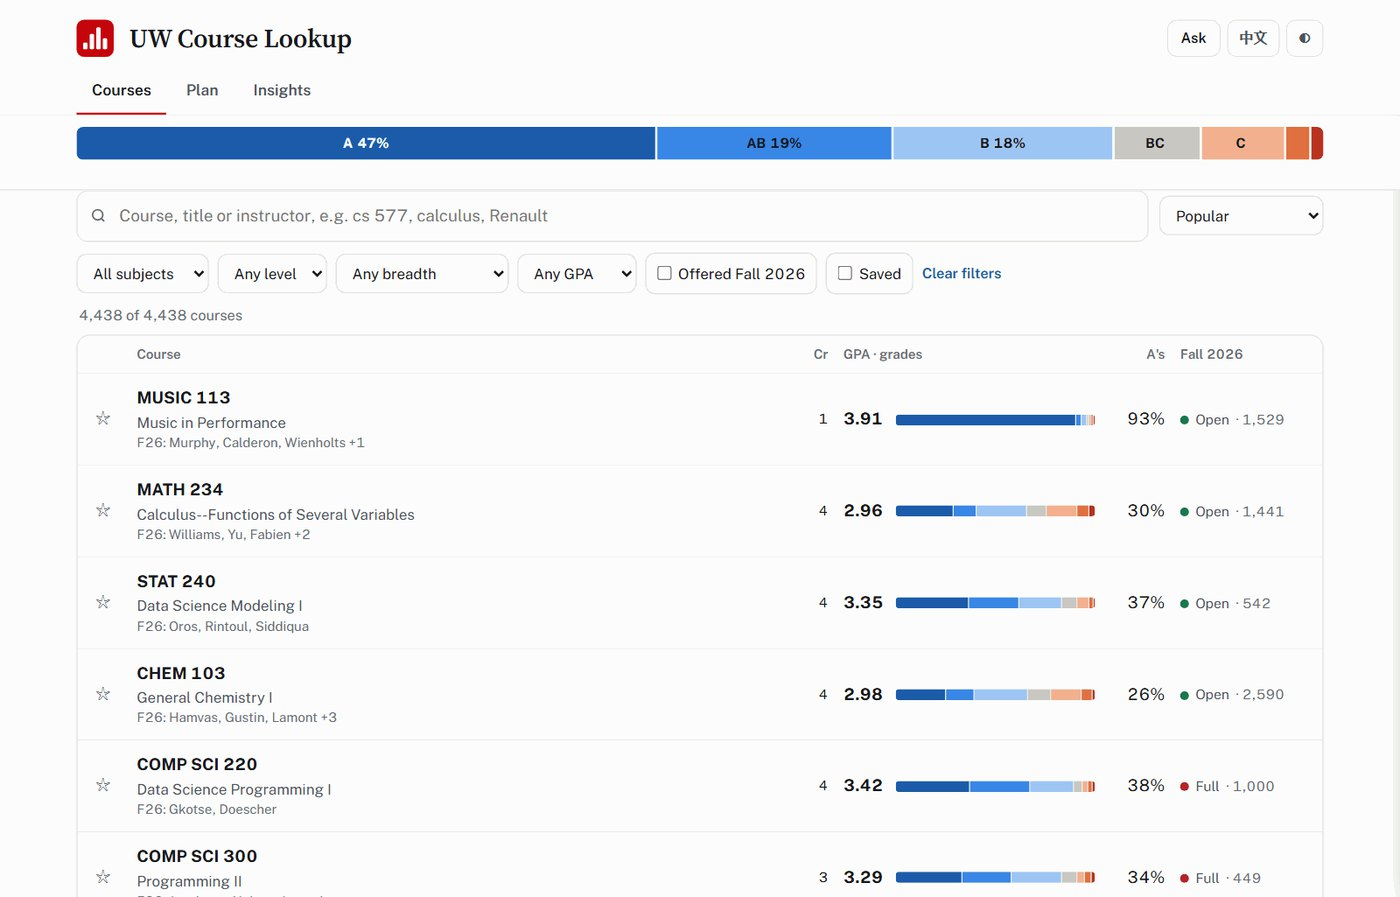
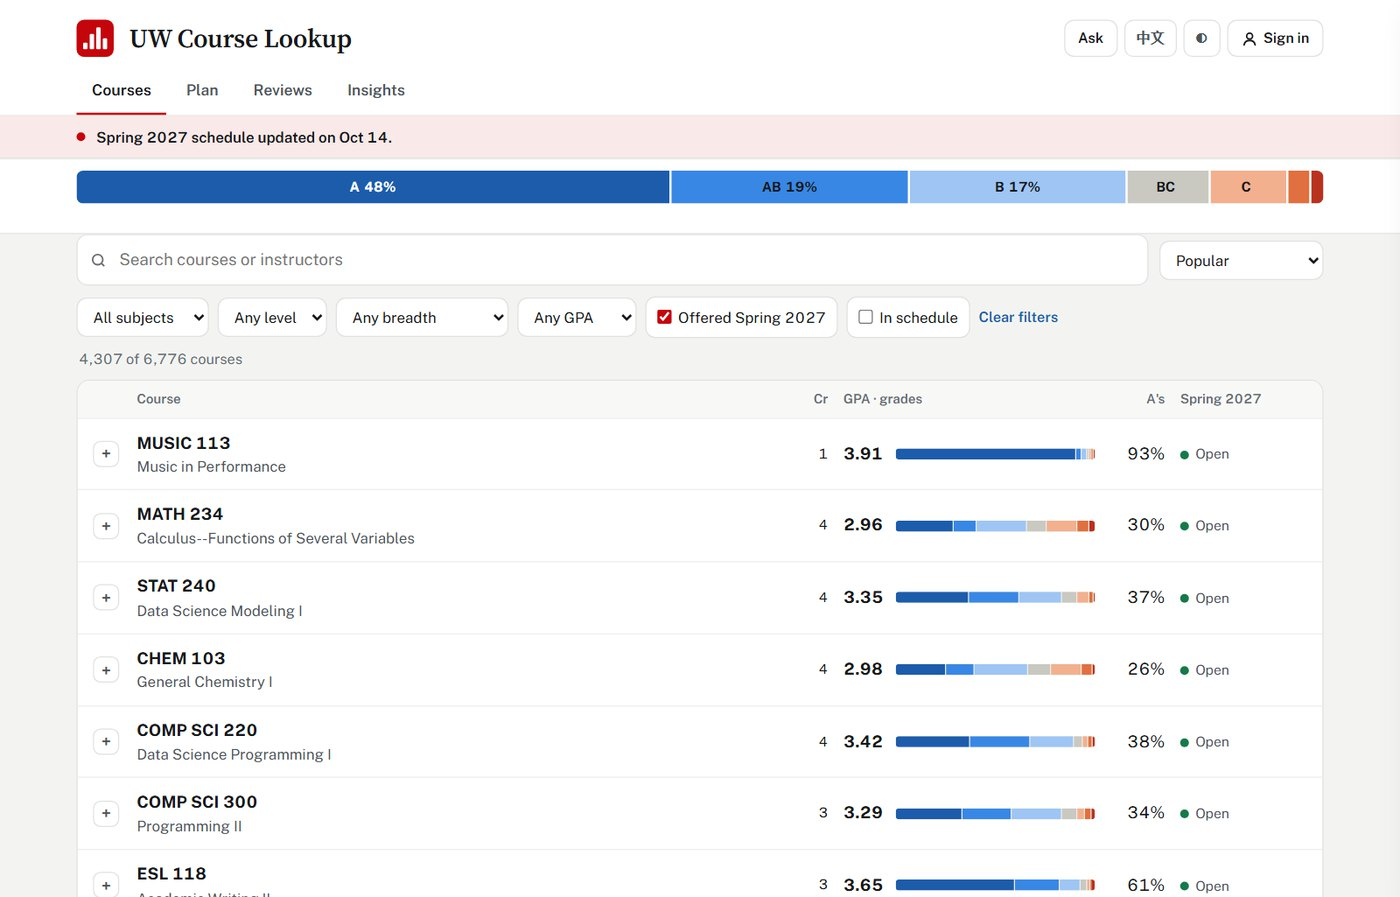
Course card: 6,776 is the catalog total and 5,433 the courses with grade history; new screenshot (4,307 of 6,776, Spring 2027) and README shots

diff --git a/index.html b/index.html
@@ -1511,11 +1511,11 @@ h2 .rev, .minor h3 .rev{display:inline-block; overflow:clip; overflow-clip-margi
           </div></div>
         </li>
         <li class="cap l" id="uw-course-lookup" data-src="assets/uw-course-lookup.jpg" data-c="38BDF8" data-f="BAE6FD" style="--i:4">
-          <figure class="cap-shot"><img src="assets/uw-course-lookup.jpg" width="1400" height="897" alt="Course list with a grade band across the top, filter lenses, and a GPA bar, trend and open seats for each course" loading="lazy" decoding="async"></figure>
+          <figure class="cap-shot"><img src="assets/uw-course-lookup.jpg" width="1400" height="897" alt="Course list showing 4,307 of 6,776 courses offered in Spring 2027, with a grade band across the top, filters, and a GPA bar, A share and seat status for each course" loading="lazy" decoding="async"></figure>
           <div class="pg"><div class="pg-in">
             <p class="cap-n" data-k style="--k:0">05 / 08 &middot; <span class="en">Web app + API</span><span class="zh" lang="zh-CN">网页应用 + API</span></p>
             <h3 aria-label="UW Course Lookup"><span aria-hidden="true"><span class="wd"><span class="ch" style="--c:0">U</span><span class="ch" style="--c:1">W</span></span> <span class="wd"><span class="ch" style="--c:3">C</span><span class="ch" style="--c:4">o</span><span class="ch" style="--c:5">u</span><span class="ch" style="--c:6">r</span><span class="ch" style="--c:7">s</span><span class="ch" style="--c:8">e</span></span> <span class="wd"><span class="ch" style="--c:10">L</span><span class="ch" style="--c:11">o</span><span class="ch" style="--c:12">o</span><span class="ch" style="--c:13">k</span><span class="ch" style="--c:14">u</span><span class="ch" style="--c:15">p</span></span></span></h3>
-            <p class="hook" data-k style="--k:2"><span class="en">Grade history, instructor GPAs and seats for all <span class="count" data-to="6776">6,776</span> UW–Madison courses in the Fall 2026 and Spring 2027 catalogs, plus a timetable planner that knows your degree.</span><span class="zh" lang="zh-CN"><span class="count" data-to="6776">6,776</span> 门 Fall 2026 和 Spring 2027 UW–Madison 课程的成绩历史、教师 GPA 和座位，还有一个了解你学位要求的课表规划器。</span></p>
+            <p class="hook" data-k style="--k:2"><span class="en">Search all <span class="count" data-to="6776">6,776</span> UW–Madison courses in the Fall 2026 and Spring 2027 catalogs: grade history and instructor GPAs for <span class="count" data-to="5433">5,433</span> of them, open seats, and a timetable planner that knows your degree.</span><span class="zh" lang="zh-CN">搜索 Fall 2026 和 Spring 2027 目录里全部 <span class="count" data-to="6776">6,776</span> 门 UW–Madison 课程：<span class="count" data-to="5433">5,433</span> 门有成绩历史和教师 GPA，另有空余座位和了解你学位要求的课表规划器。</span></p>
             <p class="links" data-k style="--k:3"><a href="https://courses.madisonstudents.com/" target="_blank" rel="noopener"><span class="en">Live site</span><span class="zh" lang="zh-CN">在线站点</span></a><a href="https://github.com/WEBGRS/uw-course-lookup" target="_blank" rel="noopener"><span class="en">Source</span><span class="zh" lang="zh-CN">源码</span></a></p>
             <p class="built" data-k style="--k:3"><span class="en">Vanilla JS, Cloudflare Workers and Workers AI, SQLite, GitHub Actions CI</span><span class="zh" lang="zh-CN">原生 JS、Cloudflare Workers 与 Workers AI、SQLite、GitHub Actions CI</span></p>
             <ul>
